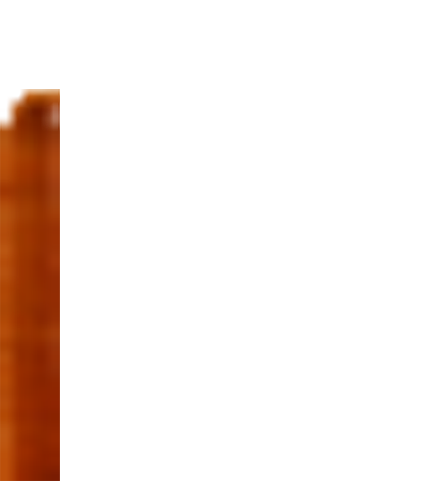
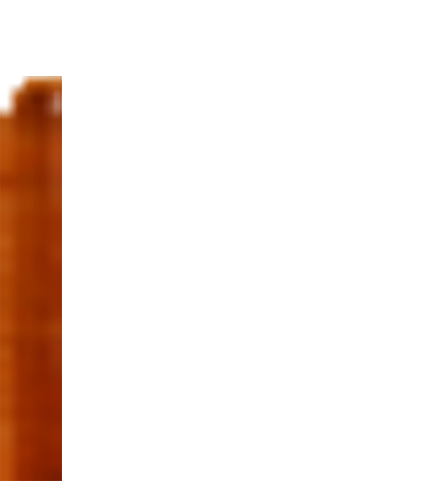
Background rack design with shade of tile finished.

Changed region(s): [[0.0, 0.1559, 0.1487, 1.0]]

diff --git a/Scrabble GUI/src/gameboard/Shade.java b/Scrabble GUI/src/gameboard/Shade.java
@@ -13,17 +13,17 @@ import javax.swing.JPanel;
  */
 public class Shade extends JPanel {
 
-  private JPanel JPaneShadeTile;
   private DTPicture dticone;
   private ImageIcon icon;
+  private JPanel[] shadeList = new JPanel[7];
 
   public Shade(){
     
     for (int i = 0; i < 7; i++) {
       initTileImage();
-      initSquareRack();
+      shadeList[i] = initSquareRack();
       setOpaque(false);
-      add(JPaneShadeTile,i);
+      add(shadeList[i],i);
 				}
 //    setBorder(BorderFactory.createLineBorder(Color.black));
     setName("Shade");
@@ -37,17 +37,22 @@ public class Shade extends JPanel {
       dticone.setTransferHandler(new TileTransferHandler());
   }
   
-  private void initSquareRack() {
-      JPaneShadeTile = new JPanel(new GridLayout(1, 1));
+  private JPanel initSquareRack() {
+      JPanel JPaneShadeTile = new JPanel(new GridLayout(1, 1));
       JPaneShadeTile.add(dticone);
       JPaneShadeTile.setOpaque(false);
       JPaneShadeTile.setVisible(true);
+      return JPaneShadeTile;
   }
   
-  public ImageIcon getImageShade(){
+  private ImageIcon getImageShade(){
     icon = ImageTools.createImageIcon("images/Shade.png","Shade");
     icon = new ImageIcon(ImageTools.getScaledImage(icon.getImage(), 36,
                          ImageTools.getProportionnalHeight(icon, 37)));
     return icon;
+  }
+  
+  public void setVisibleShade(int position, boolean bol){
+    shadeList[position-1].setVisible(bol);
   }
 }

diff --git a/Scrabble GUI/src/common/LocateOfTile.java b/Scrabble GUI/src/common/LocateOfTile.java
@@ -1,5 +1,6 @@
 package common;
 
+import gameboard.Shade;
 import java.awt.AWTEvent;
 import java.awt.Component;
 import java.awt.Point;
@@ -21,8 +22,10 @@ public class LocateOfTile {
   private static Component ctainer;
   private static Point pt;
   private static boolean dndEnable = true;
+  private static Shade shadeTile;
   
-  public LocateOfTile(){
+  public LocateOfTile(Shade shadeTile){
+    this.shadeTile = shadeTile;
     //The listener catch the component under the mouse:
     Toolkit.getDefaultToolkit().addAWTEventListener(
       new AWTEventListener()
@@ -90,12 +93,23 @@ public class LocateOfTile {
               if (TileNbr==0) {TileNbr = i;}
             }
           }
+          if("From".equals(fromTo)){
+            shadeTile.setVisibleShade(TileNbr, false);
+          }
+          else{
+            shadeTile.setVisibleShade(TileNbr, true);
+            
+          }
           System.out.println(fromTo+" Rack pos("+TileNbr+")");
           break;
 
         default:
           break;
-      }    
+      }
+    }
+    else{
+      shadeTile.setVisibleShade(1, true);
+      System.out.println("There was no movement.");
     }
       
   }

diff --git a/Scrabble GUI/src/gameboard/MainFrame.java b/Scrabble GUI/src/gameboard/MainFrame.java
@@ -19,16 +19,17 @@ class MainFrame {
   private GameGrid gameGrid;
   private Menu menu;
   private JPanel rackBackground;
-  private JPanel ShadeTile;
+  private Shade shadeTile;
 
   public MainFrame()  {
-    new LocateOfTile();
     frame = new JFrame("Scrabble");
     gameBoard = new GameBoard();
     rack = new Rack();
 				gameGrid = new GameGrid();
 				menu = new Menu();
-    ShadeTile = new Shade();
+    shadeTile = new Shade();
+    new LocateOfTile(shadeTile);
+//    ShadeTile.setVisibleShade(1, false);
     rackBackground = new RackBackground();
     initContainer();
     initFrame();
@@ -39,7 +40,7 @@ class MainFrame {
     contentPane.setLayout(null);
     contentPane.add(gameBoard, 0);
     contentPane.add(rackBackground, 0);
-    contentPane.add(ShadeTile, 0);
+    contentPane.add(shadeTile, 0);
     contentPane.add(rack, 0);
     contentPane.add(gameGrid, 0);
     contentPane.setVisible(true);
